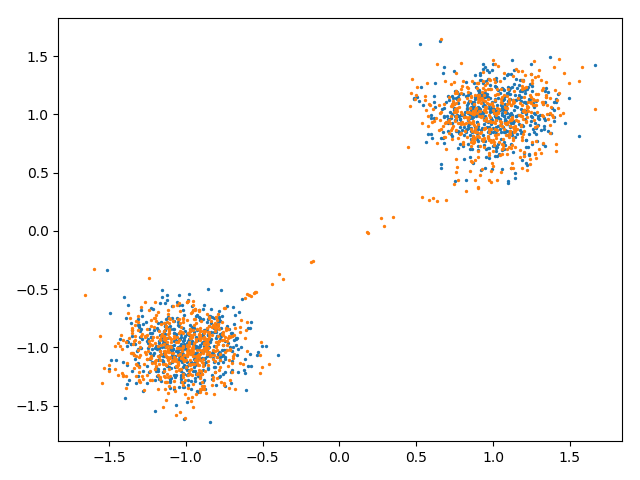
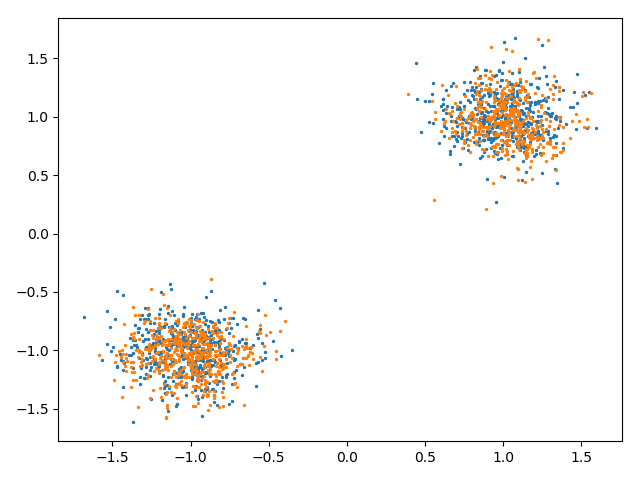
Tweaked flow

diff --git a/relie/experiments/bimodal_flow.py b/relie/experiments/bimodal_flow.py
@@ -2,52 +2,13 @@ import matplotlib.pyplot as plt
 import torch
 import torch.nn as nn
 from torch.utils.data import TensorDataset
-from torch.distributions import TransformedDistribution, SigmoidTransform, Normal
-from relie.flow import CouplingTransform, PermuteTransform, LUAffineTransform
+from torch.distributions import TransformedDistribution, Normal
+from relie.flow import CouplingTransform, PermuteTransform
 from relie.utils.data import TensorLoader, cycle
 
 
 # device = torch.device('cuda:0' if torch.cuda.is_available() else 'cpu')
 device = torch.device('cpu')
-
-
-class LUAffineTransformParams(nn.ParameterDict):
-    def __init__(self, d):
-        super().__init__({
-            'lower': nn.Parameter(torch.randn(d, d)),
-            'upper': nn.Parameter(torch.randn(d, d)),
-            'diag': nn.Parameter(torch.randn(d)),
-            'bias': nn.Parameter(torch.randn(d)),
-        })
-
-
-class LUAffineFlowModel(nn.Module):
-    """
-    Note the reversed() and the .inv, this is because pytorch
-    considers the Z -> X transformation, while the literature does the inverse.
-    """
-    def __init__(self, d, n_layers):
-        super().__init__()
-        self.d = d
-        self.params = nn.ModuleList(
-            [LUAffineTransformParams(d) for _ in range(n_layers)])
-        self.register_buffer('prior_loc', torch.zeros(d))
-        self.register_buffer('prior_scale', torch.ones(d))
-
-    def transforms(self):
-        transforms = []
-        for i, params in enumerate(self.params):
-            transforms.append(LUAffineTransform(**params).inv)
-            if i < len(self.params)-1:
-                transforms.append(SigmoidTransform().inv)
-        return transforms
-
-    def distr(self):
-        prior = Normal(self.prior_loc, self.prior_scale)
-        return TransformedDistribution(prior, list(reversed(self.transforms())))
-
-    def forward(self, x):
-        return self.distr().log_prob(x).mean()
 
 
 class CouplingFlowModel(nn.Module):
@@ -60,9 +21,11 @@ class CouplingFlowModel(nn.Module):
         self.d = d
         self.nets = nn.ModuleList(
             [nn.Sequential(
-                nn.Linear(d_residue, 10),
+                nn.Linear(d_residue, 50),
                 nn.ReLU(),
-                nn.Linear(10, (d-d_residue) * 2)
+                nn.Linear(50, 50),
+                nn.ReLU(),
+                nn.Linear(50, (d-d_residue) * 2)
             ) for _ in range(n_layers)]
         )
         self.register_buffer('prior_loc', torch.zeros(d))
@@ -72,8 +35,8 @@ class CouplingFlowModel(nn.Module):
         transforms = []
         for i, net in enumerate(self.nets):
             transforms.extend([
-                CouplingTransform(1, net),
-                PermuteTransform([1, 0])
+                CouplingTransform(1, net).inv,
+                PermuteTransform([1, 0]).inv
             ])
         return transforms
 
@@ -85,22 +48,16 @@ class CouplingFlowModel(nn.Module):
         return self.distr().log_prob(x).mean()
 
 
-
 d = 2
 num_samples = 1000
 component_a = torch.randn(num_samples // 2, d) / 5 + torch.tensor([1., 1.])
 component_b = torch.randn(num_samples // 2, d) / 5 + torch.tensor([-1., -1.])
 data = torch.cat([component_a, component_b]).to(device)
-# data = torch.randn(num_samples, d) * torch.tensor([0.1, 1.])
 dataset = TensorDataset(data)
 loader = TensorLoader(dataset, 64, True)
 
-# plt.scatter(*data.t(), s=6)
-# plt.show()
 
-
-# model = LUAffineFlowModel(d, 2).to(device)
-model = CouplingFlowModel(d, 1, 4).to(device)
+model = CouplingFlowModel(d, 1, 6).to(device)
 optimizer = torch.optim.Adam(model.parameters())
 
 loader_iter = cycle(loader)
@@ -120,7 +77,4 @@ for it in range(100000):
         plt.show()
 
 
-
-
-# %%
 
